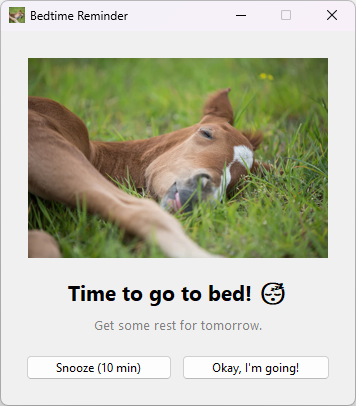
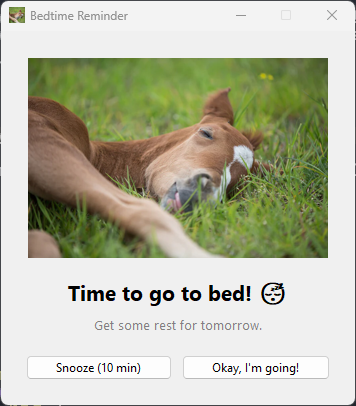
docs: Retake screenshots, add the good-night message

diff --git a/tools/screenshots.py b/tools/screenshots.py
@@ -82,6 +82,10 @@ def main_() -> None:
     capture(app, app._reminder_window.window, out / 'prewarning.png')
     app._show_reminder(snooze_minutes=10, on_snooze=lambda: None, on_dismiss=lambda: None)
     capture(app, app._reminder_window.window, out / 'reminder.png')
+    app._show_reminder(snooze_minutes=10, on_snooze=lambda: None, on_dismiss=lambda: None)
+    app._reminder_window.GOOD_NIGHT_MS = 60_000  # keep it open while capturing
+    app._reminder_window._handle_going()
+    capture(app, app._reminder_window.window, out / 'good-night.png')
     app.root.destroy()
 
 

diff --git a/docs/architecture.md b/docs/architecture.md
@@ -130,7 +130,7 @@ This makes the jump from 3.0.0 (no updater) a single action: start the downloade
 - `tools/e2e_update.py OLD_EXE NEW_EXE` – end-to-end test with two real builds: installs the old one in a temp folder, serves the new one as a fake release on localhost, runs `--update-now` and checks that the file was replaced, the new instance started and the old exe was removed.
 - `tools/e2e_install.py EXE` – end-to-end test of self-install and uninstall: starts the exe from a fake Downloads folder, checks the installed copy runs and registered itself (shortcut, *Apps* entry, autostart), then runs `--uninstall --quiet` and checks that the app quit and everything except the data folder is gone. Changes the current user's registry – CI only on Windows.
 - `tools/e2e_migrate.py LEGACY_EXE NEW_EXE` – migration test: a real 3.0.0 build runs from a fake Desktop; starting the new exe from a fake Downloads folder must stop it, install, keep settings, move autostart and replace the old exe with a shortcut. CI builds the 3.0.0 exe from the `v3.0.0` tag (`git worktree`). CI only on Windows.
-- `tools/screenshots.py` – regenerates `docs/screenshots/*.png` with sample data (Windows only, uses `PIL.ImageGrab`).
+- `tools/screenshots.py` – regenerates `docs/screenshots/*.png` (settings, statistics, pre-warning, reminder, good night) with sample data (Windows only, uses `PIL.ImageGrab`).
 - `GotoBed.exe --self-test` (or `python src/main.py --self-test`) creates the tray icon object, opens every window once, checks that the bundled image loads, closes everything and exits with code 0 (1 on error, details in the log).
 
 ## CI / release pipeline

diff --git a/README.md b/README.md
@@ -83,6 +83,7 @@ The *Updates* section of the settings also shows the installed version and has a
 
 <p align="center">
   <img src="docs/screenshots/prewarning.png" alt="Pre-warning window" width="340">
+  <img src="docs/screenshots/good-night.png" alt="Good night message after &quot;Okay, I'm going!&quot;" width="340">
 </p>
 
 - At **pre-warning time** a window ("Bedtime in N minutes!") and a Windows notification appear. Just click *OK*.

diff --git a/CHANGELOG.md b/CHANGELOG.md
@@ -4,6 +4,7 @@
 
 ### Added
 - **Okay, I'm going!** now says *Good night! 🌙 Sleep well.* and closes the window by itself after 3 seconds.
+- Screenshot of the good-night message in the README; all screenshots retaken.
 
 ### Changed
 - Default bedtime is now **21:40** (was 22:00). Only affects new installations – a bedtime you already saved stays as it is.
